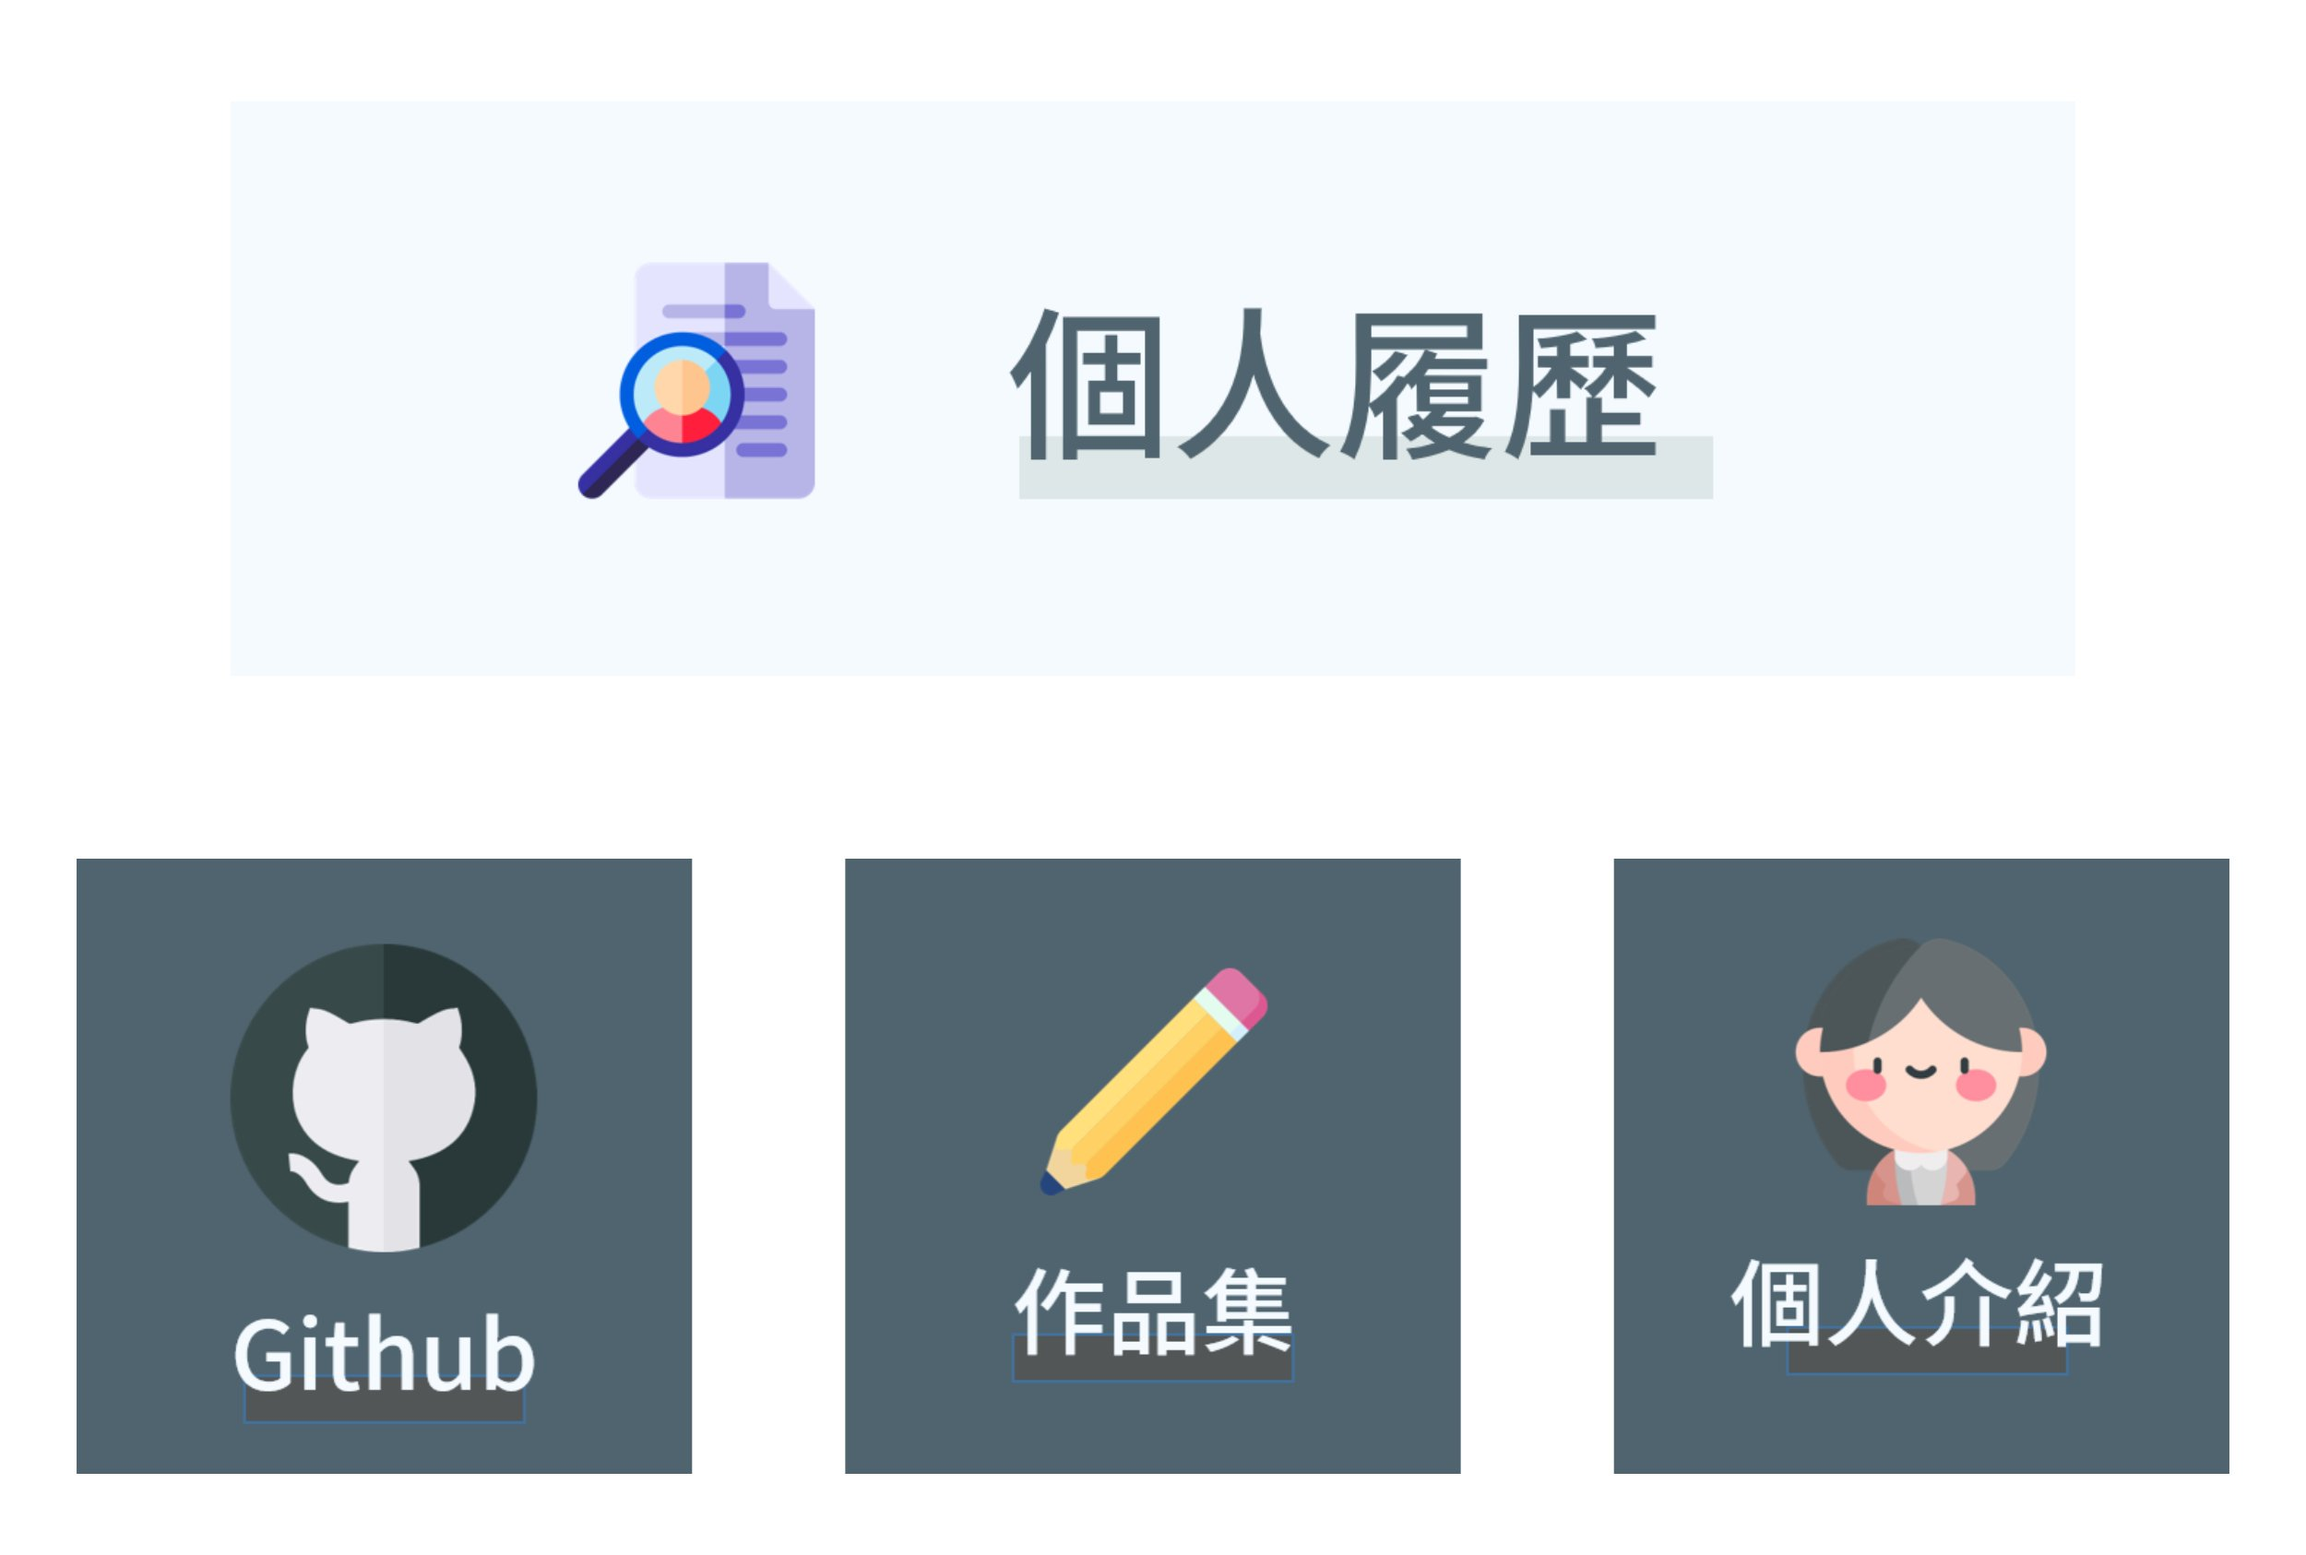
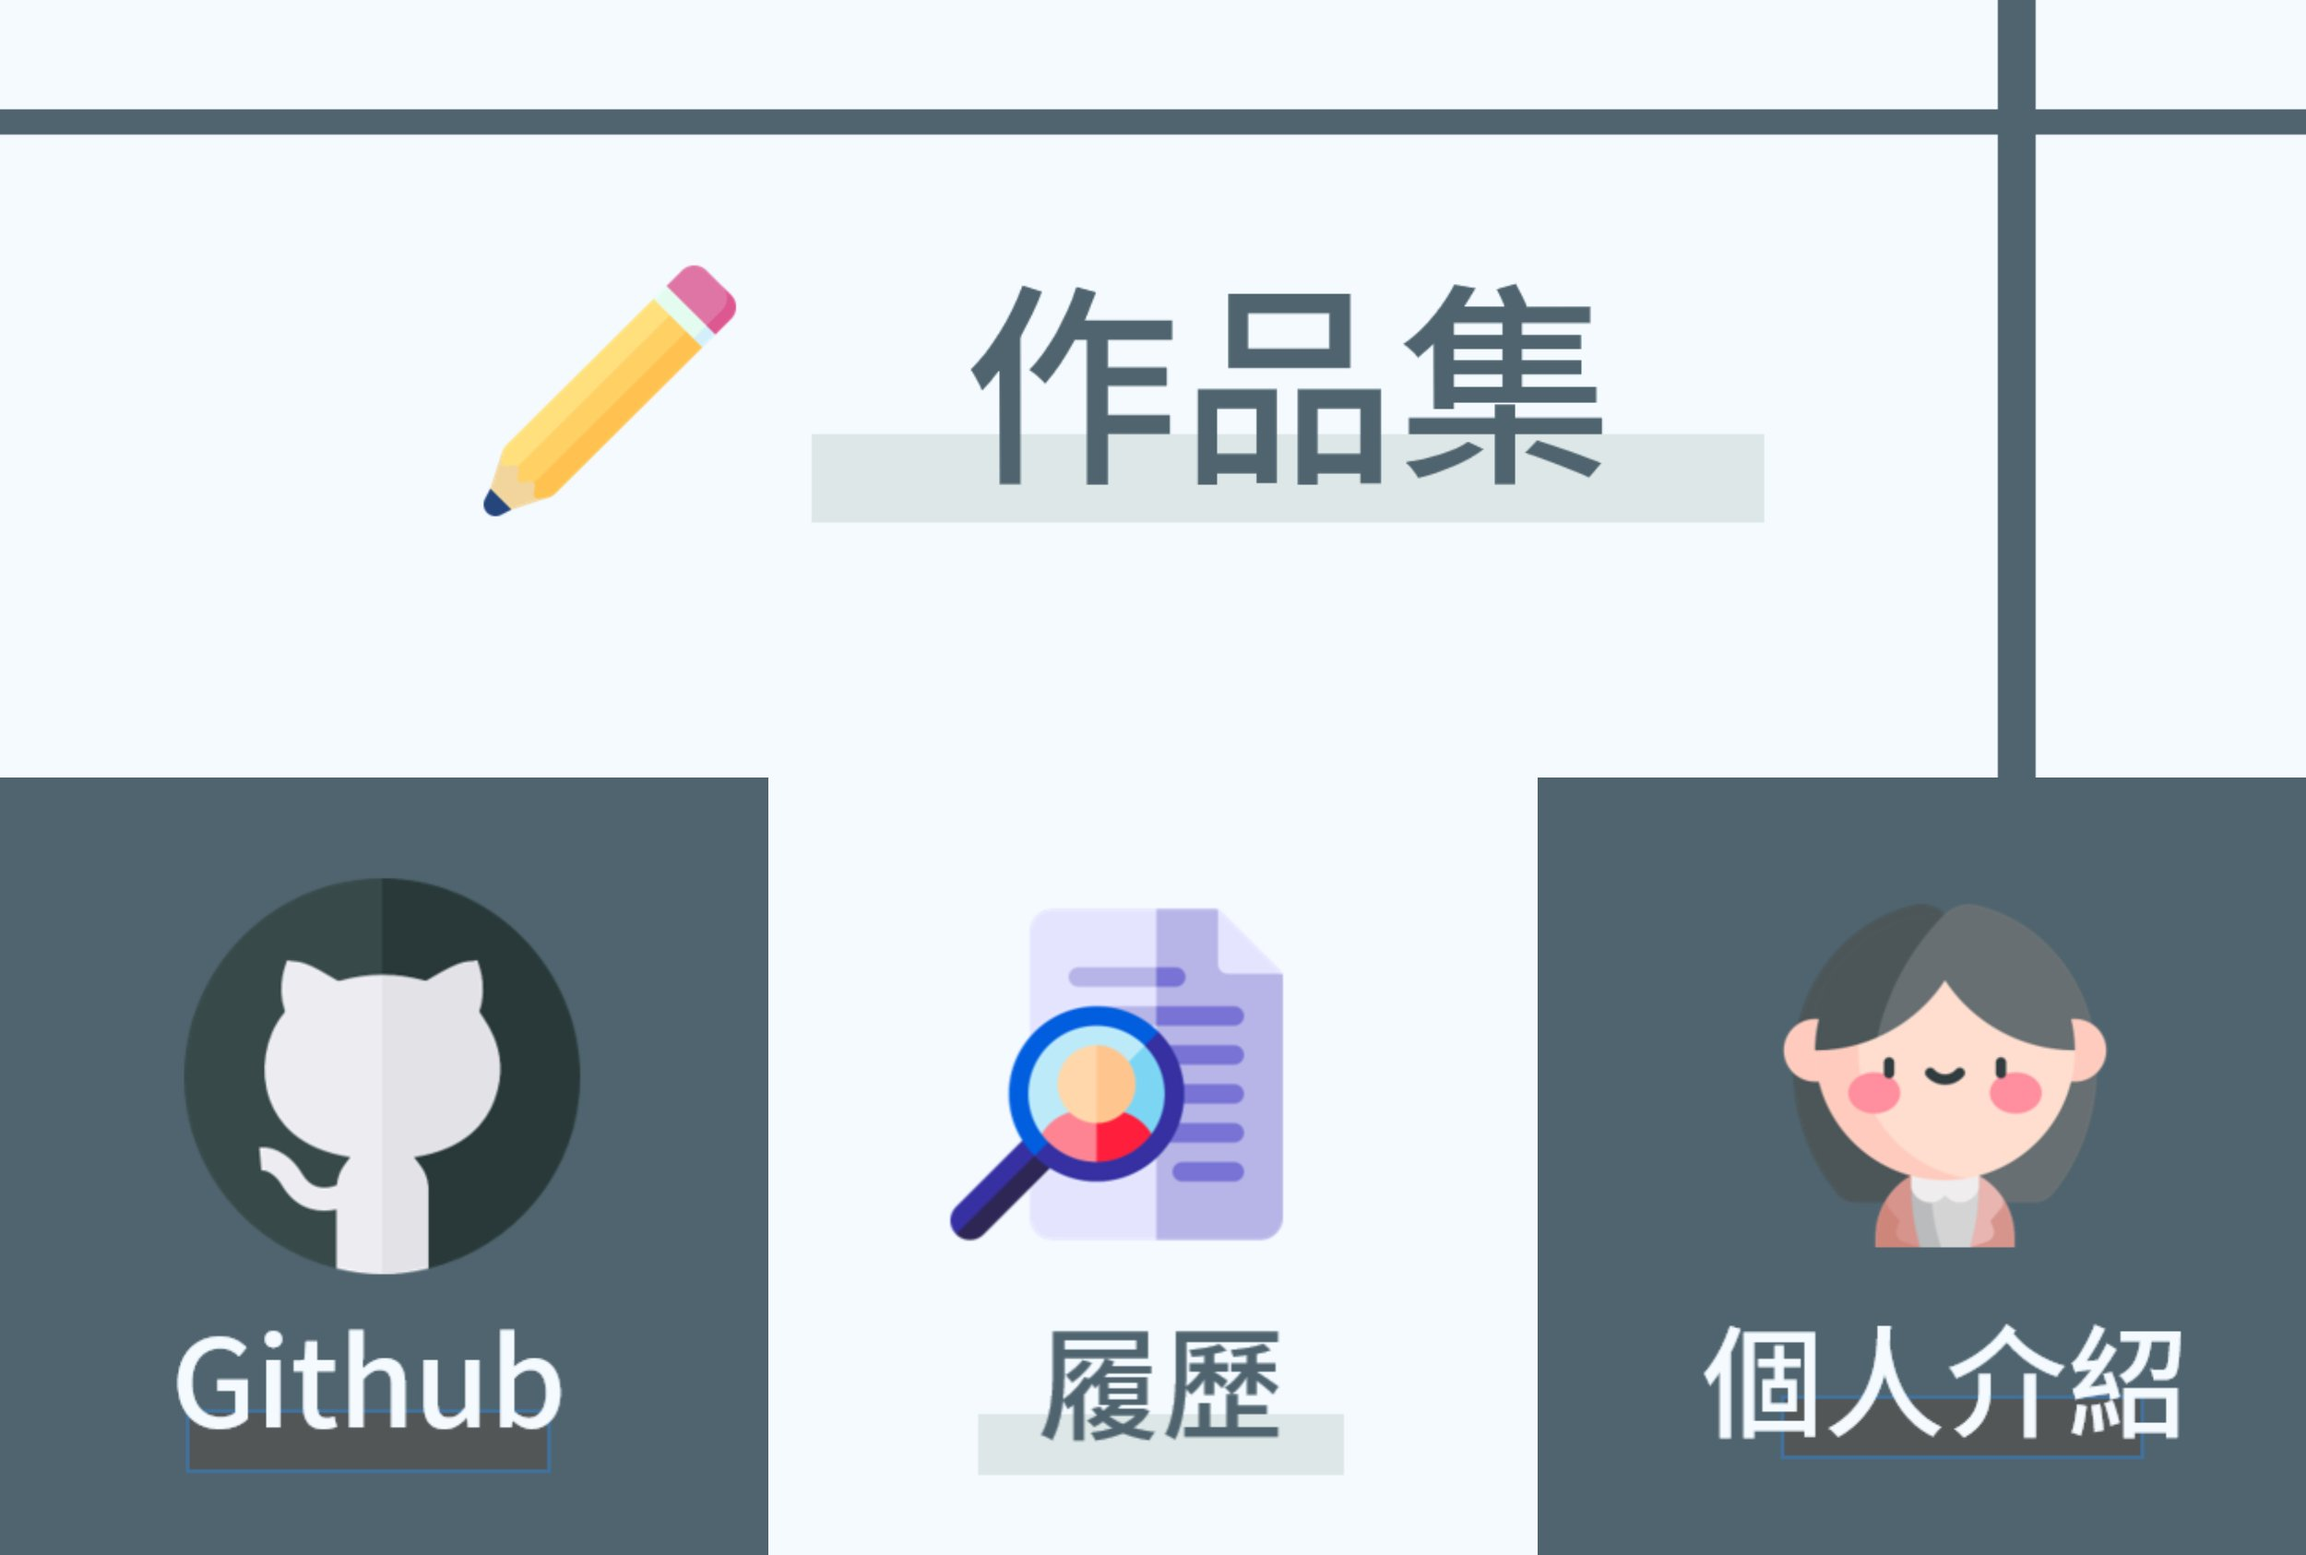
fix

diff --git a/server.go b/server.go
@@ -50,7 +50,7 @@ func main() {
 				Bounds: linebot.RichMenuBounds{X: 0, Y: 0, Width: 2500, Height: 843},
 				Action: linebot.RichMenuAction{
 					Type: linebot.RichMenuActionTypeMessage,
-					Text: "履歷",
+					Text: "作品集",
 				},
 			},
 			{
@@ -58,14 +58,14 @@ func main() {
 				Action: linebot.RichMenuAction{
 					Type: linebot.RichMenuActionTypeURI,
 					URI:  "https://github.com/sherry186",
-					Text: "click me",
+					Text: "github",
 				},
 			},
 			{
 				Bounds: linebot.RichMenuBounds{X: 833, Y: 843, Width: 834, Height: 843},
 				Action: linebot.RichMenuAction{
 					Type: linebot.RichMenuActionTypeMessage,
-					Text: "作品集",
+					Text: "履歷",
 				},
 			},
 			{
